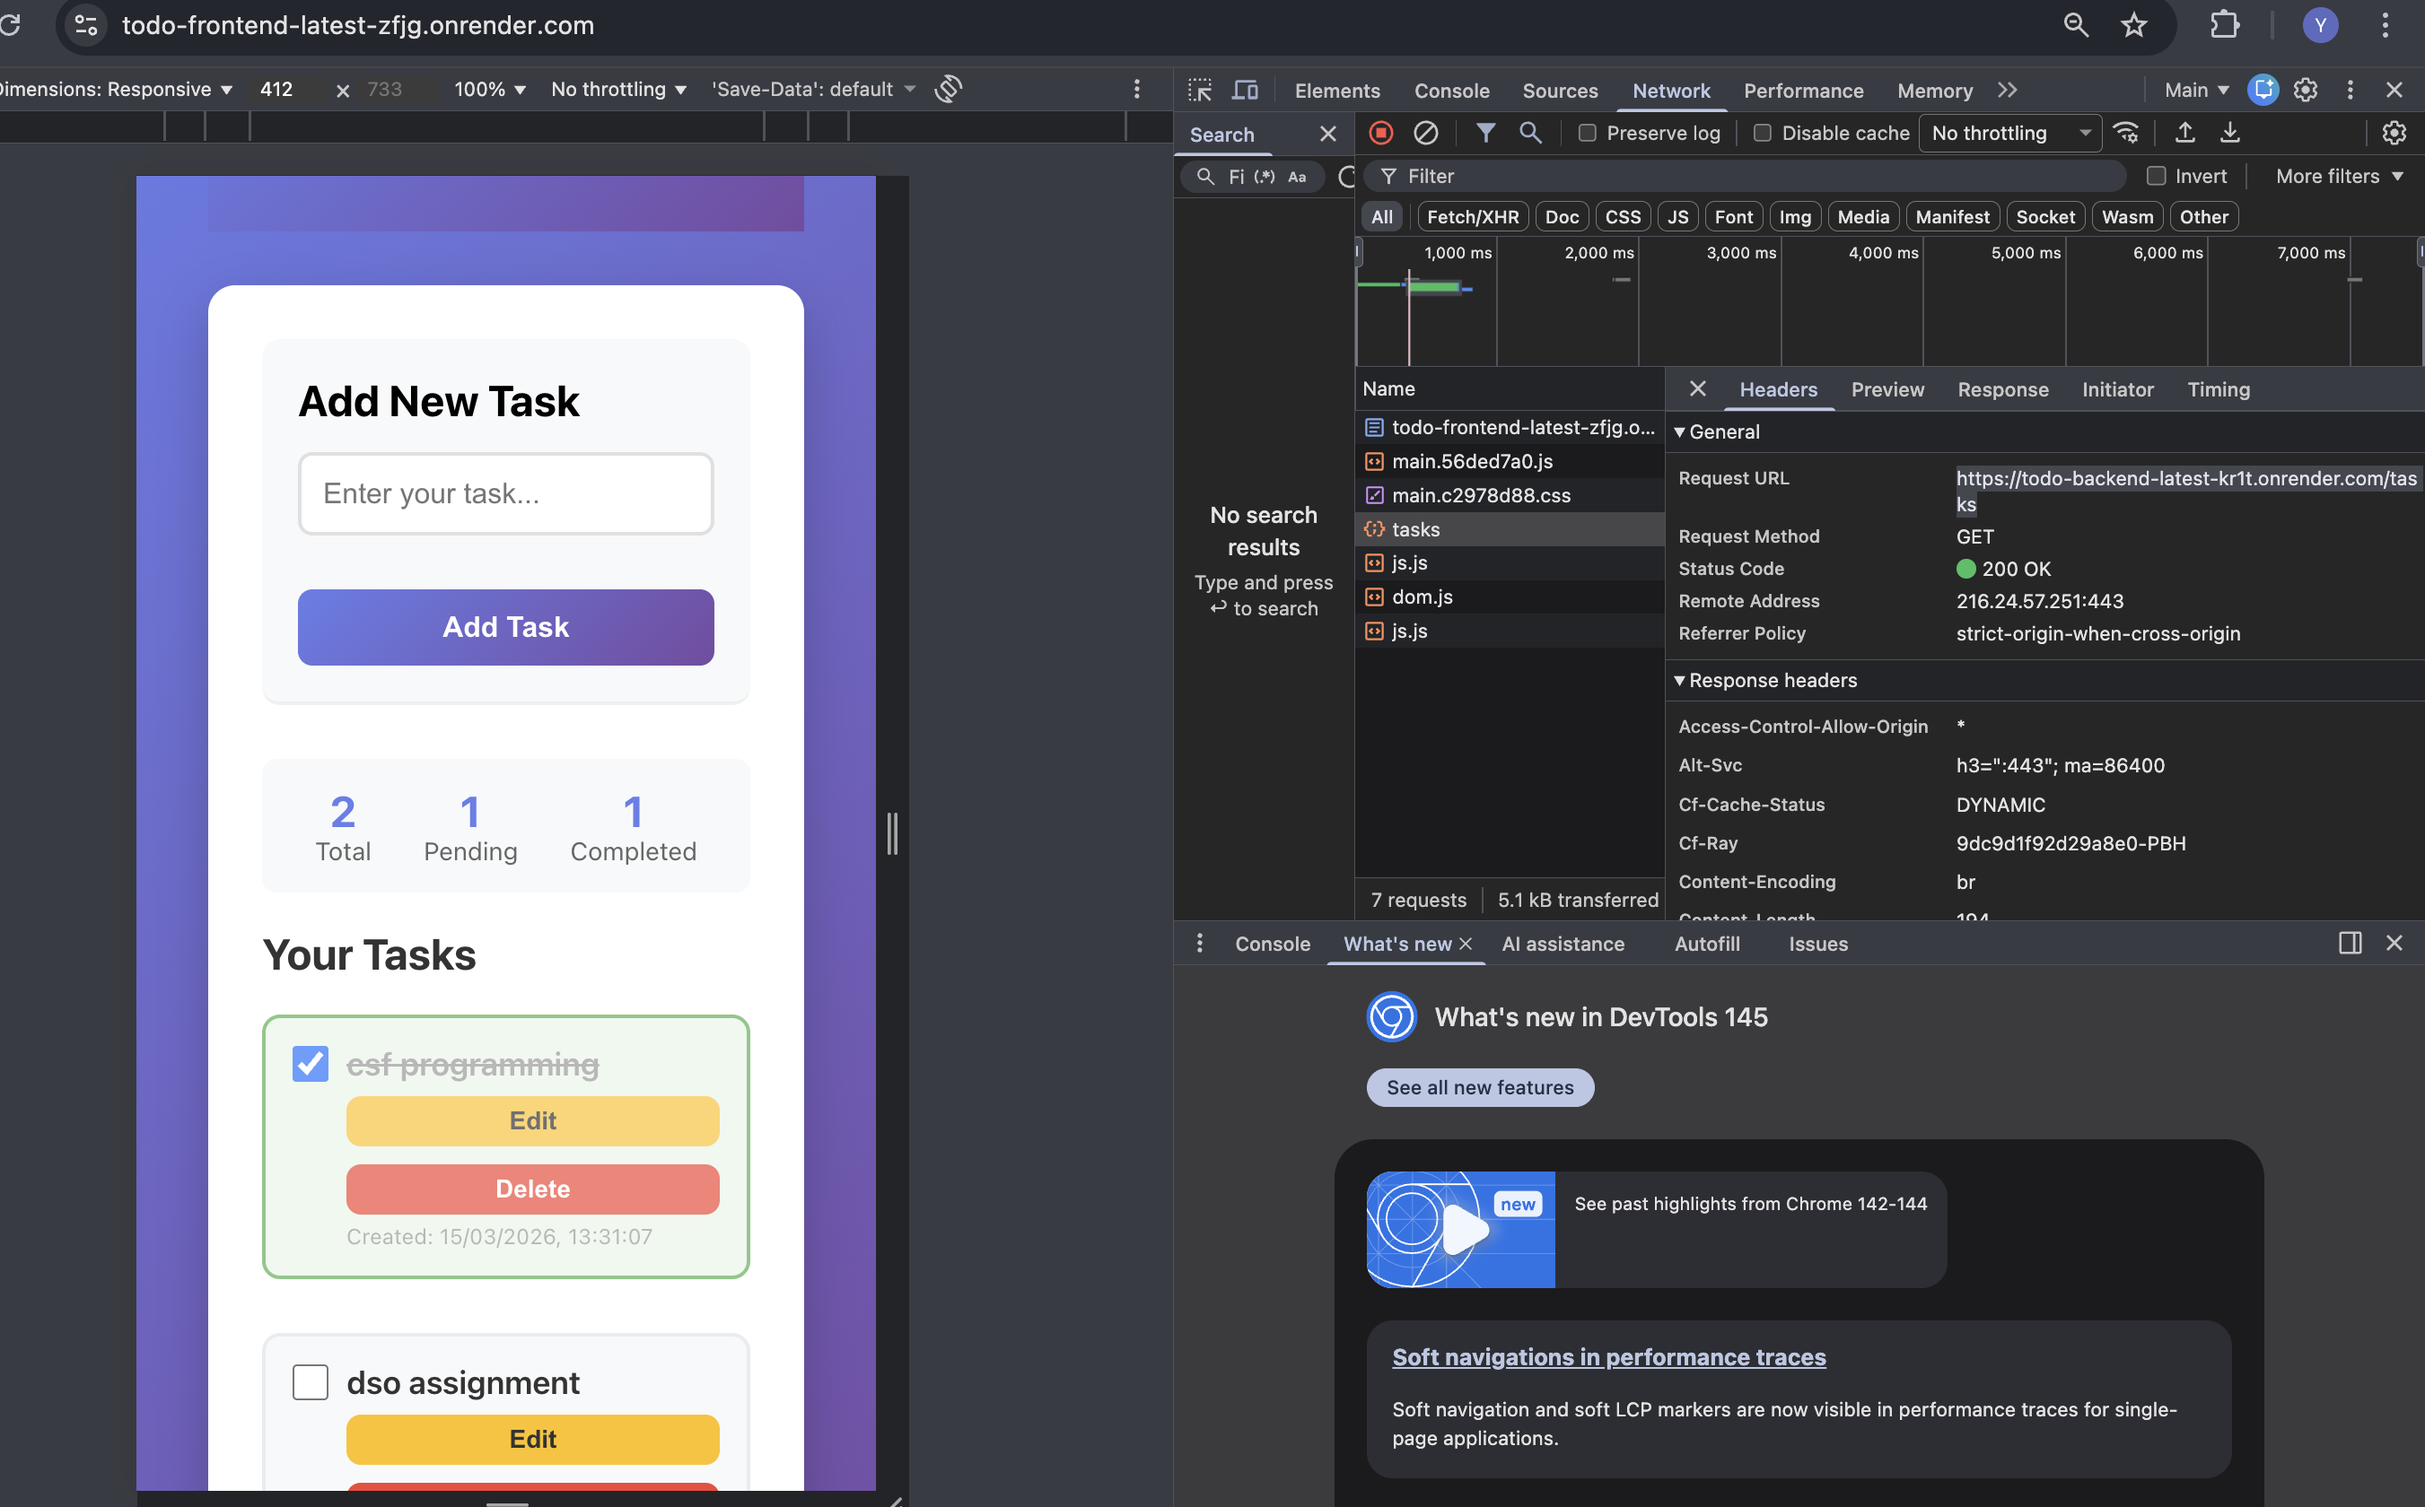
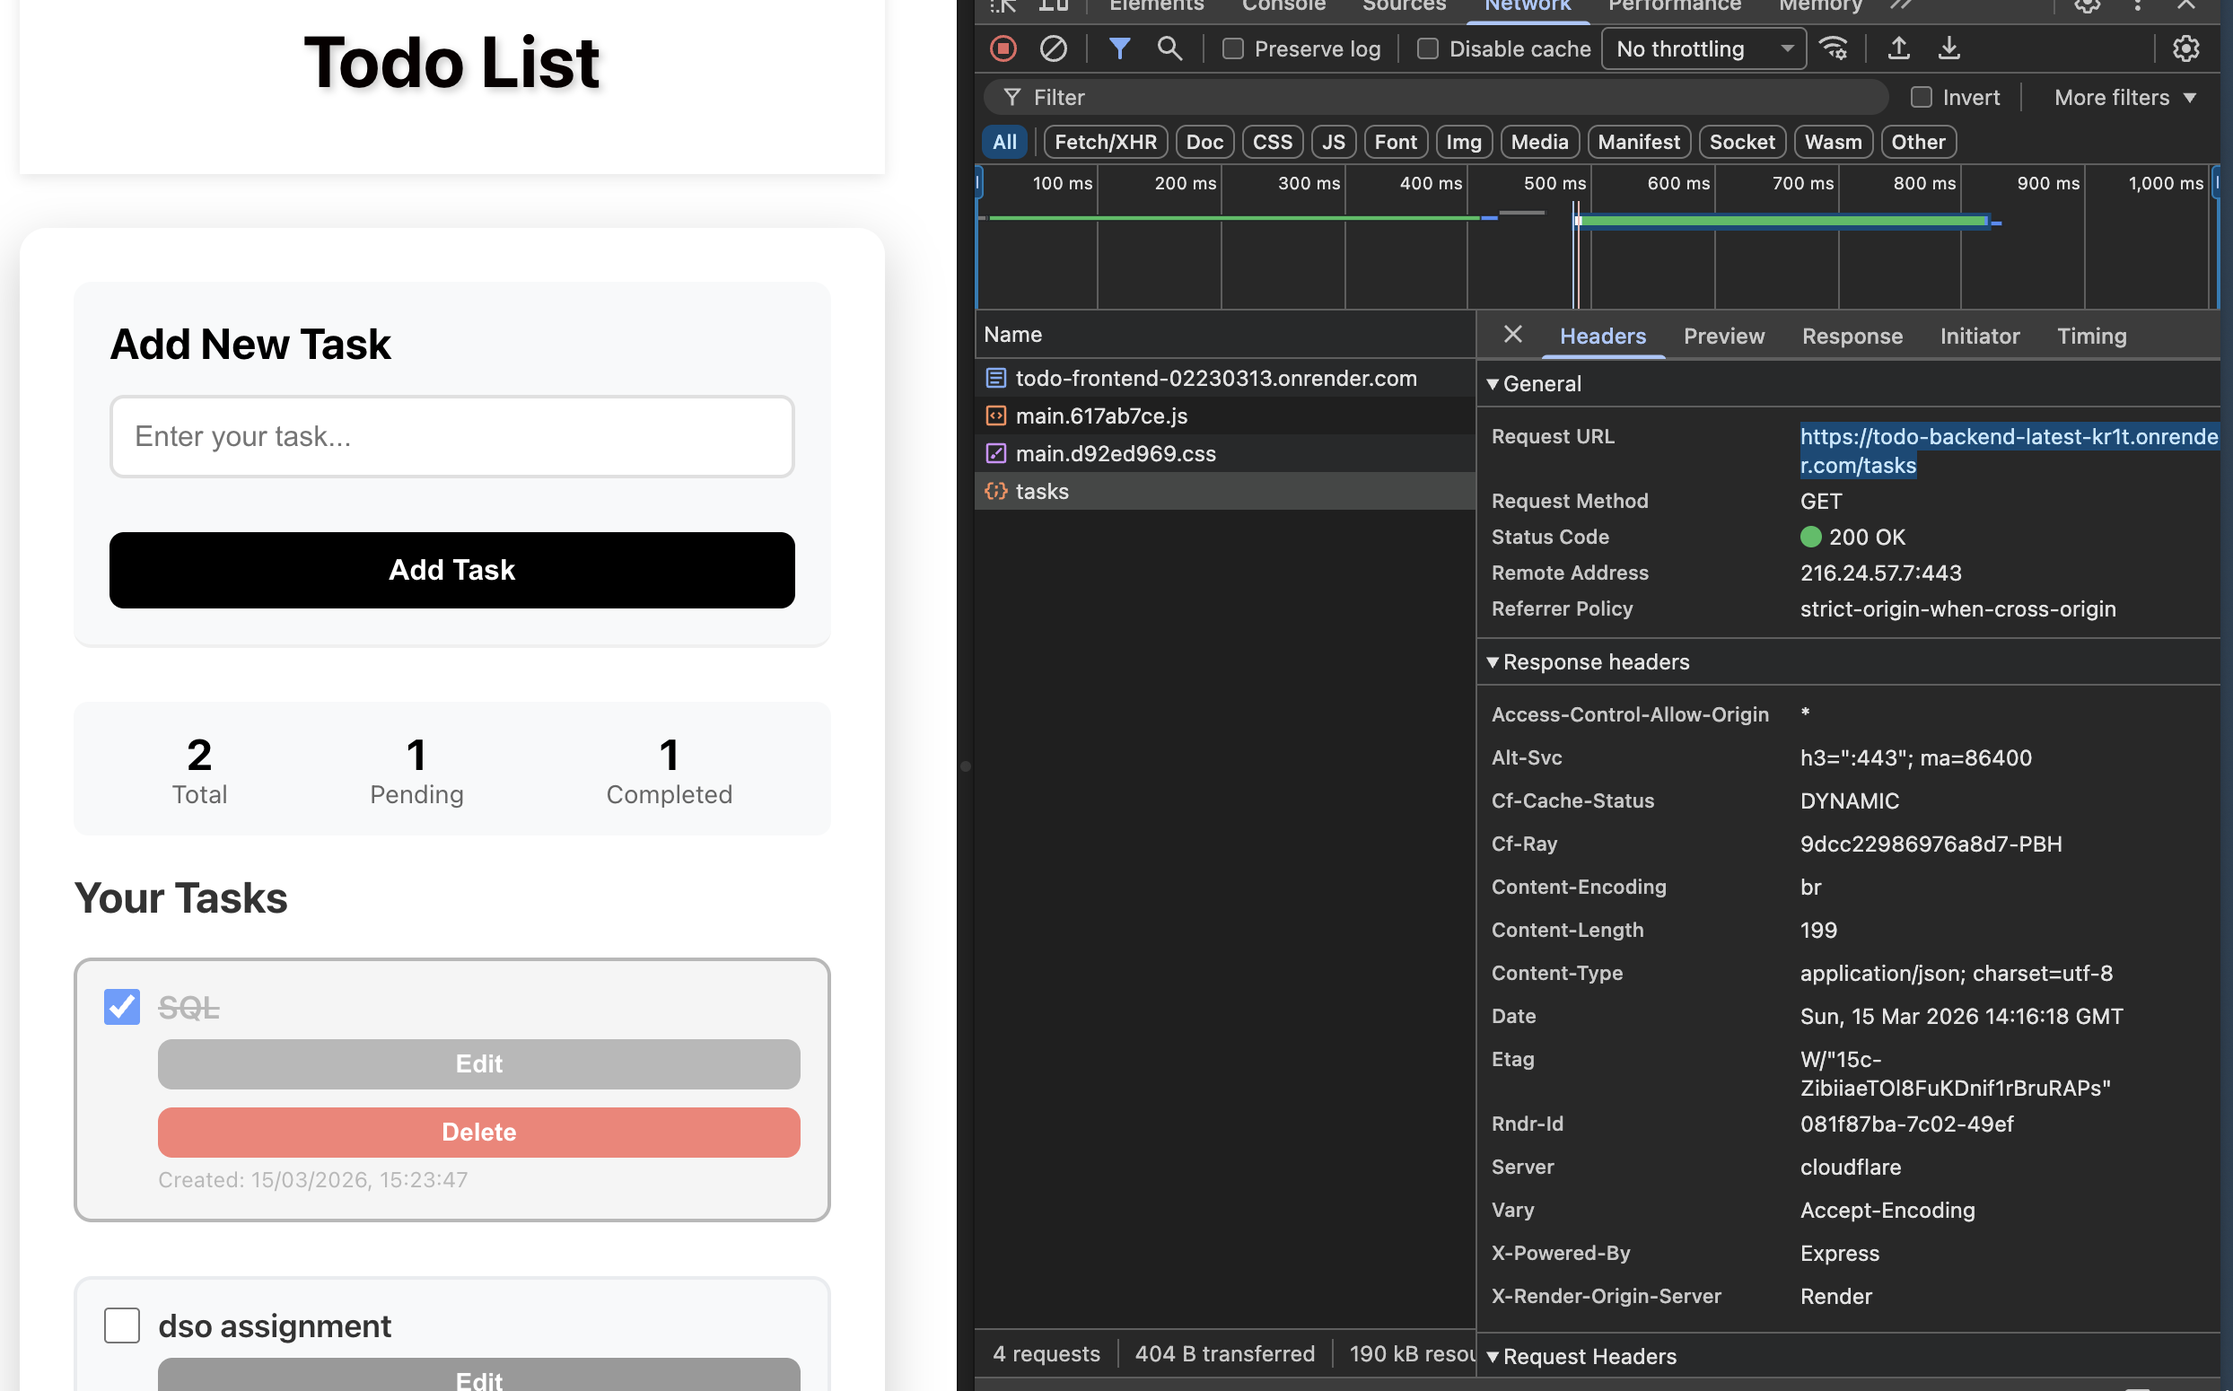
DSO reports

diff --git a/frontend/src/api.js b/frontend/src/api.js
@@ -1,7 +1,7 @@
 import axios from 'axios';
 
-// Get API URL from environment variable
-const API_URL = process.env.REACT_APP_API_URL || 'http://localhost:5000';
+// Always default to the Render backend URL when env is missing.
+const API_URL = (process.env.REACT_APP_API_URL || 'https://todo-backend-latest-kr1t.onrender.com').trim();
 
 // Create axios instance with base configuration
 const api = axios.create({

diff --git a/README.md b/README.md
@@ -1,210 +1,205 @@
-# Todo Application - DSO Assignment 1
 
-**Student Name:** Yonten Kinley Tenzin  
-**Student ID:** 02230313
+# DSO101 Assignment 1 - Todo Application
 
----
+Student Name: Yonten Kinley Tenzin  
+Student ID: 02230313
 
-## Overview
+GitHub Repository: [YontenKinleyTenzin_02230313_DSO101_A1](https://github.com/Kinleyjigs/YontenKinleyTenzin_02230313_DSO101_A1.git)
 
-Full-stack todo application deployed on Render with React frontend, Express backend, and PostgreSQL database. Application is containerized with Docker and automatically deployed via GitHub integration.
+This submission follows the required assignment structure:  
+`studentname_studentnumber_DSO101_A1`
 
----
+## 1. Project Overview (Step 0 Prerequisite)
 
-## Active Deployment Links
+This is a full-stack Todo List web application with:
+- Frontend (React): Add, edit, delete, and mark tasks complete.
+- Backend (Node.js + Express): CRUD API for tasks.
+- Database (PostgreSQL): Persistent storage.
 
-**Frontend:** [https://todo-frontend-latest-zfjg.onrender.com/](https://todo-frontend-latest-zfjg.onrender.com/)
+## 2. Tech Stack
 
-**Backend API:** [https://todo-backend-latest-kr1t.onrender.com](https://todo-backend-latest-kr1t.onrender.com)
+- Frontend: React + Axios
+- Backend: Node.js + Express
+- Database: PostgreSQL
+- Containerization: Docker + Docker Compose
+- Deployment: Render + Docker Hub
 
----
+## 3. Environment Variables (.env)
 
-## Tech Stack
+Environment variables are used for environment-specific values (API URL, DB credentials, server port).
 
-| Component | Technology |
-|-----------|------------|
-| Frontend | React 18, Axios, CSS3 |
-| Backend | Node.js 18, Express.js |
-| Database | PostgreSQL |
-| Containerization | Docker |
-| Deployment | Render.com |
-| CI/CD | GitHub + render.yaml Blueprint |
+Important rule:
+- Never commit real `.env` files to Git.
+- `.env` is ignored in `.gitignore`.
+- Use example/template files for reference.
 
----
+### Backend .env variables
 
-## Part A: Docker Hub & Render Deployment
+Create `backend/.env` from `backend/.env.example`:
 
-### 1. Build Docker Images & Push to Docker Hub
-
-```bash
-
-docker login
-
-# Backend
-docker buildx build --platform linux/amd64 -t yonten1234567890/todo-backend:02230313 --push ./backend
-
-# Frontend
-docker buildx build --platform linux/amd64 -t yonten1234567890/todo-frontend:02230313 --push ./frontend
-```
-
-### 2. Deploy on Render
-
-**Backend Service:**
-- Image: `yonten1234567890/todo-backend`
-- Port: 5000
-- Environment: 
-  - `DATABASE_URL` (Render PostgreSQL connection string)
-  - `DB_NAME`, `DB_USER`, `DB_PASSWORD`, `DB_PORT`
-
-**Frontend Service:**
-- Image: `yonten1234567890/todo-frontend`
-- Port: 80
-- Environment:
-  - `REACT_APP_API_URL=https://todo-backend-latest-kr1t.onrender.com`
-
-**Database:**
-- Render PostgreSQL managed service
-
----
-
-## Part B: Automated Deployment
-
-### render.yaml Blueprint
-
-```yaml
-services:
-  - type: web
-    name: be-todo
-    env: docker
-    dockerfilePath: ./backend/Dockerfile
-    envVars:
-      - key: DATABASE_URL
-        value: ${{ secrets.DATABASE_URL }}
-      - key: PORT
-        value: 5000
-
-  - type: web
-    name: fe-todo
-    env: docker
-    dockerfilePath: ./frontend/Dockerfile
-    envVars:
-      - key: REACT_APP_API_URL
-        value: https://todo-backend-latest-kr1t.onrender.com
-
-databases:
-  - name: todo-db
-    databaseName: todo_db
-    user: todo_user
-```
-
-### Deployment Process
-
-1. Push code to GitHub
-2. Connect GitHub repo to Render
-3. Render auto-detects `render.yaml`
-4. Services build and deploy automatically
-5. Every git push triggers a new deployment
-
----
-
-## Features
-
-- Add, edit, delete tasks  
-- Mark tasks as complete/incomplete  
-- Real-time task updates  
-- Persistent database storage  
-- Responsive UI design  
-- Docker containerized  
-- Auto-deploy on git push  
-
----
-
-## API Endpoints
-
-| Method | Endpoint | Description |
-|--------|----------|-------------|
-| GET | `/` | Health check |
-| GET | `/tasks` | Get all tasks |
-| POST | `/tasks` | Create task |
-| PUT | `/tasks/:id` | Update task |
-| DELETE | `/tasks/:id` | Delete task |
-
----
-
-## Environment Variables
-
-**Backend (.env):**
 ```env
-DATABASE_URL=postgres://user:password@host:5432/todo_db
-DB_HOST=your-render-host
-DB_USER=todo_user
+DB_HOST=localhost
+DB_USER=postgres
 DB_PASSWORD=your_password
 DB_NAME=todo_db
 DB_PORT=5432
 PORT=5000
 ```
 
-**Frontend (.env):**
+### Frontend .env variables
+
+Create `frontend/.env` from `frontend/.env.example`:
+
 ```env
-REACT_APP_API_URL=https://todo-backend-latest-kr1t.onrender.com
+REACT_APP_API_URL=http://localhost:5000
 ```
 
-⚠ **Never commit .env files to Git!**
+For production, set this to your live backend URL, for example:
 
----
+```env
+REACT_APP_API_URL=https://be-todo.onrender.com
+```
 
-## Deployment Screenshots
+## 4. How Frontend, Backend, and DB Are Connected
+
+Local/dev connection flow:
+1. Frontend sends API requests to `REACT_APP_API_URL`.
+2. Backend receives requests on `PORT` (default `5000`).
+3. Backend connects to PostgreSQL using `DB_HOST`, `DB_USER`, `DB_PASSWORD`, `DB_NAME`, `DB_PORT`.
+4. Backend performs CRUD and returns JSON to frontend.
+
+Render connection flow:
+1. Frontend service uses `REACT_APP_API_URL=https://be-todo.onrender.com`.
+2. Backend service receives DB credentials via Render environment variables (or Render linked DB values).
+3. Backend connects to Render PostgreSQL and serves API responses.
+
+Current API endpoints:
+- `GET /tasks`
+- `POST /tasks`
+- `PUT /tasks/:id`
+- `DELETE /tasks/:id`
+
+## 5. Local Run Instructions
+
+### Option A: Run services individually
+
+Backend:
+
+```bash
+cd backend
+npm install
+cp .env.example .env
+npm run dev
+```
+
+Frontend:
+
+```bash
+cd frontend
+npm install
+cp .env.example .env
+npm start
+```
+
+### Option B: Run using Docker Compose
+
+From project root:
+
+```bash
+docker-compose up --build
+```
+
+Default ports from compose:
+- Frontend: `http://localhost`
+- Backend: `http://localhost:5001`
+- PostgreSQL: `localhost:5432`
+
+## 6. Part A - Build and Push Pre-built Images to Docker Hub
+
+Requirement: Use student ID as the image tag.
+
+Backend image:
+
+```bash
+docker build -t yonten1234567890/todo-backend:02230313 ./backend
+docker push yonten1234567890/todo-backend:02230313
+```
+
+Frontend image:
+
+```bash
+docker build -t yonten1234567890/todo-frontend:02230313 ./frontend
+docker push yonten1234567890/todo-frontend:02230313
+```
+
+## 7. Part A - Deploy Docker Images on Render
+
+Backend web service:
+- Deploy from existing Docker Hub image: `yonten1234567890/todo-backend:02230313`
+- Set environment variables:
+   - `DB_HOST`
+   - `DB_USER`
+   - `DB_PASSWORD`
+   - `DB_NAME`
+   - `DB_PORT`
+   - `PORT=5000`
+
+Frontend web service:
+- Deploy from existing Docker Hub image: `yonten1234567890/todo-frontend:02230313`
+- Set:
+   - `REACT_APP_API_URL=https://be-todo.onrender.com`
+
+Database:
+- Use Render PostgreSQL managed database.
+
+## 8. Part B - Automated Build and Deployment from GitHub (Blueprint)
+
+This repository includes `render.yaml` for multi-service deployment:
+- Backend service built from `backend/Dockerfile`
+- Frontend service built from `frontend/Dockerfile`
+- Managed PostgreSQL database
+
+Render Blueprint behavior:
+- On each new Git commit pushed to GitHub, Render rebuilds and redeploys services automatically.
+
+## 9. Live Deployment Links
+
+- Frontend: https://todo-frontend-02230313.onrender.com/
+- Backend API: https://todo-backend-latest-kr1t.onrender.com
+
+Quick API test:
+
+```bash
+curl https://todo-backend-latest-kr1t.onrender.com/tasks
+```
+
+## 10. Evidence / Screenshots
 
 ### Local Development
 ![Local Development Setup](frontend/public/local_dev.png)
 
-### Docker Hub
+### Docker Hub Repository
 ![Docker Hub Repository](frontend/public/dockerhub.png)
 
-### Docker Hub frontend
-![alt text](frontend/public/frontend.png)
+### Docker Hub Frontend Image
+![Frontend Image](frontend/public/frontend.png)
 
-### Docker Hub backend
-![alt text](frontend/public/backend.png)
+### Docker Hub Backend Image
+![Backend Image](frontend/public/backend.png)
 
 ### Render Deployment
 ![Render Dashboard](frontend/public/render.png)
 
 ### Live Application
-![alt text](frontend/public/applicationUI.png)
+![Application UI](frontend/public/applicationUI.png)
 
----
+## 11. References
+- react documentation: https://react.dev/
+- Docker documentation: https://docs.docker.com/
+- Build and push image: https://docs.docker.com/get-started/introduction/build-and-push-first-image/
+- Render image deployment: https://render.com/docs/deploying-an-image
+- Render environment variables: https://render.com/docs/configure-environment-variables
+- Render Blueprint spec: https://render.com/docs/blueprint-spec
 
-## Testing
-
-Test live backend:
-```bash
-curl https://todo-backend-latest-kr1t.onrender.com/tasks
-```
-
-Or visit the [frontend](https://todo-frontend-latest-zfjg.onrender.com/) directly to test the app.
-
----
-
-## Key Lessons
-
-1. **Environment variables** separate config from code
-2. **Docker** ensures consistent environments across machines
-3. **Render Blueprint** automates multi-service deployments
-4. **GitHub integration** enables CI/CD pipelines
-5. **ARM compatibility** needed for M1/M2 Macs (use buildx)
-6. **DATABASE_URL** simplifies cloud database connections
-
----
-
-## Resources
-
-- [Docker Docs](https://docs.docker.com/)
-- [Render Docs](https://render.com/docs)
-- [Express.js](https://expressjs.com/)
-- [React](https://react.dev/)
-- [PostgreSQL](https://www.postgresql.org/docs/)
-
----
 
 
